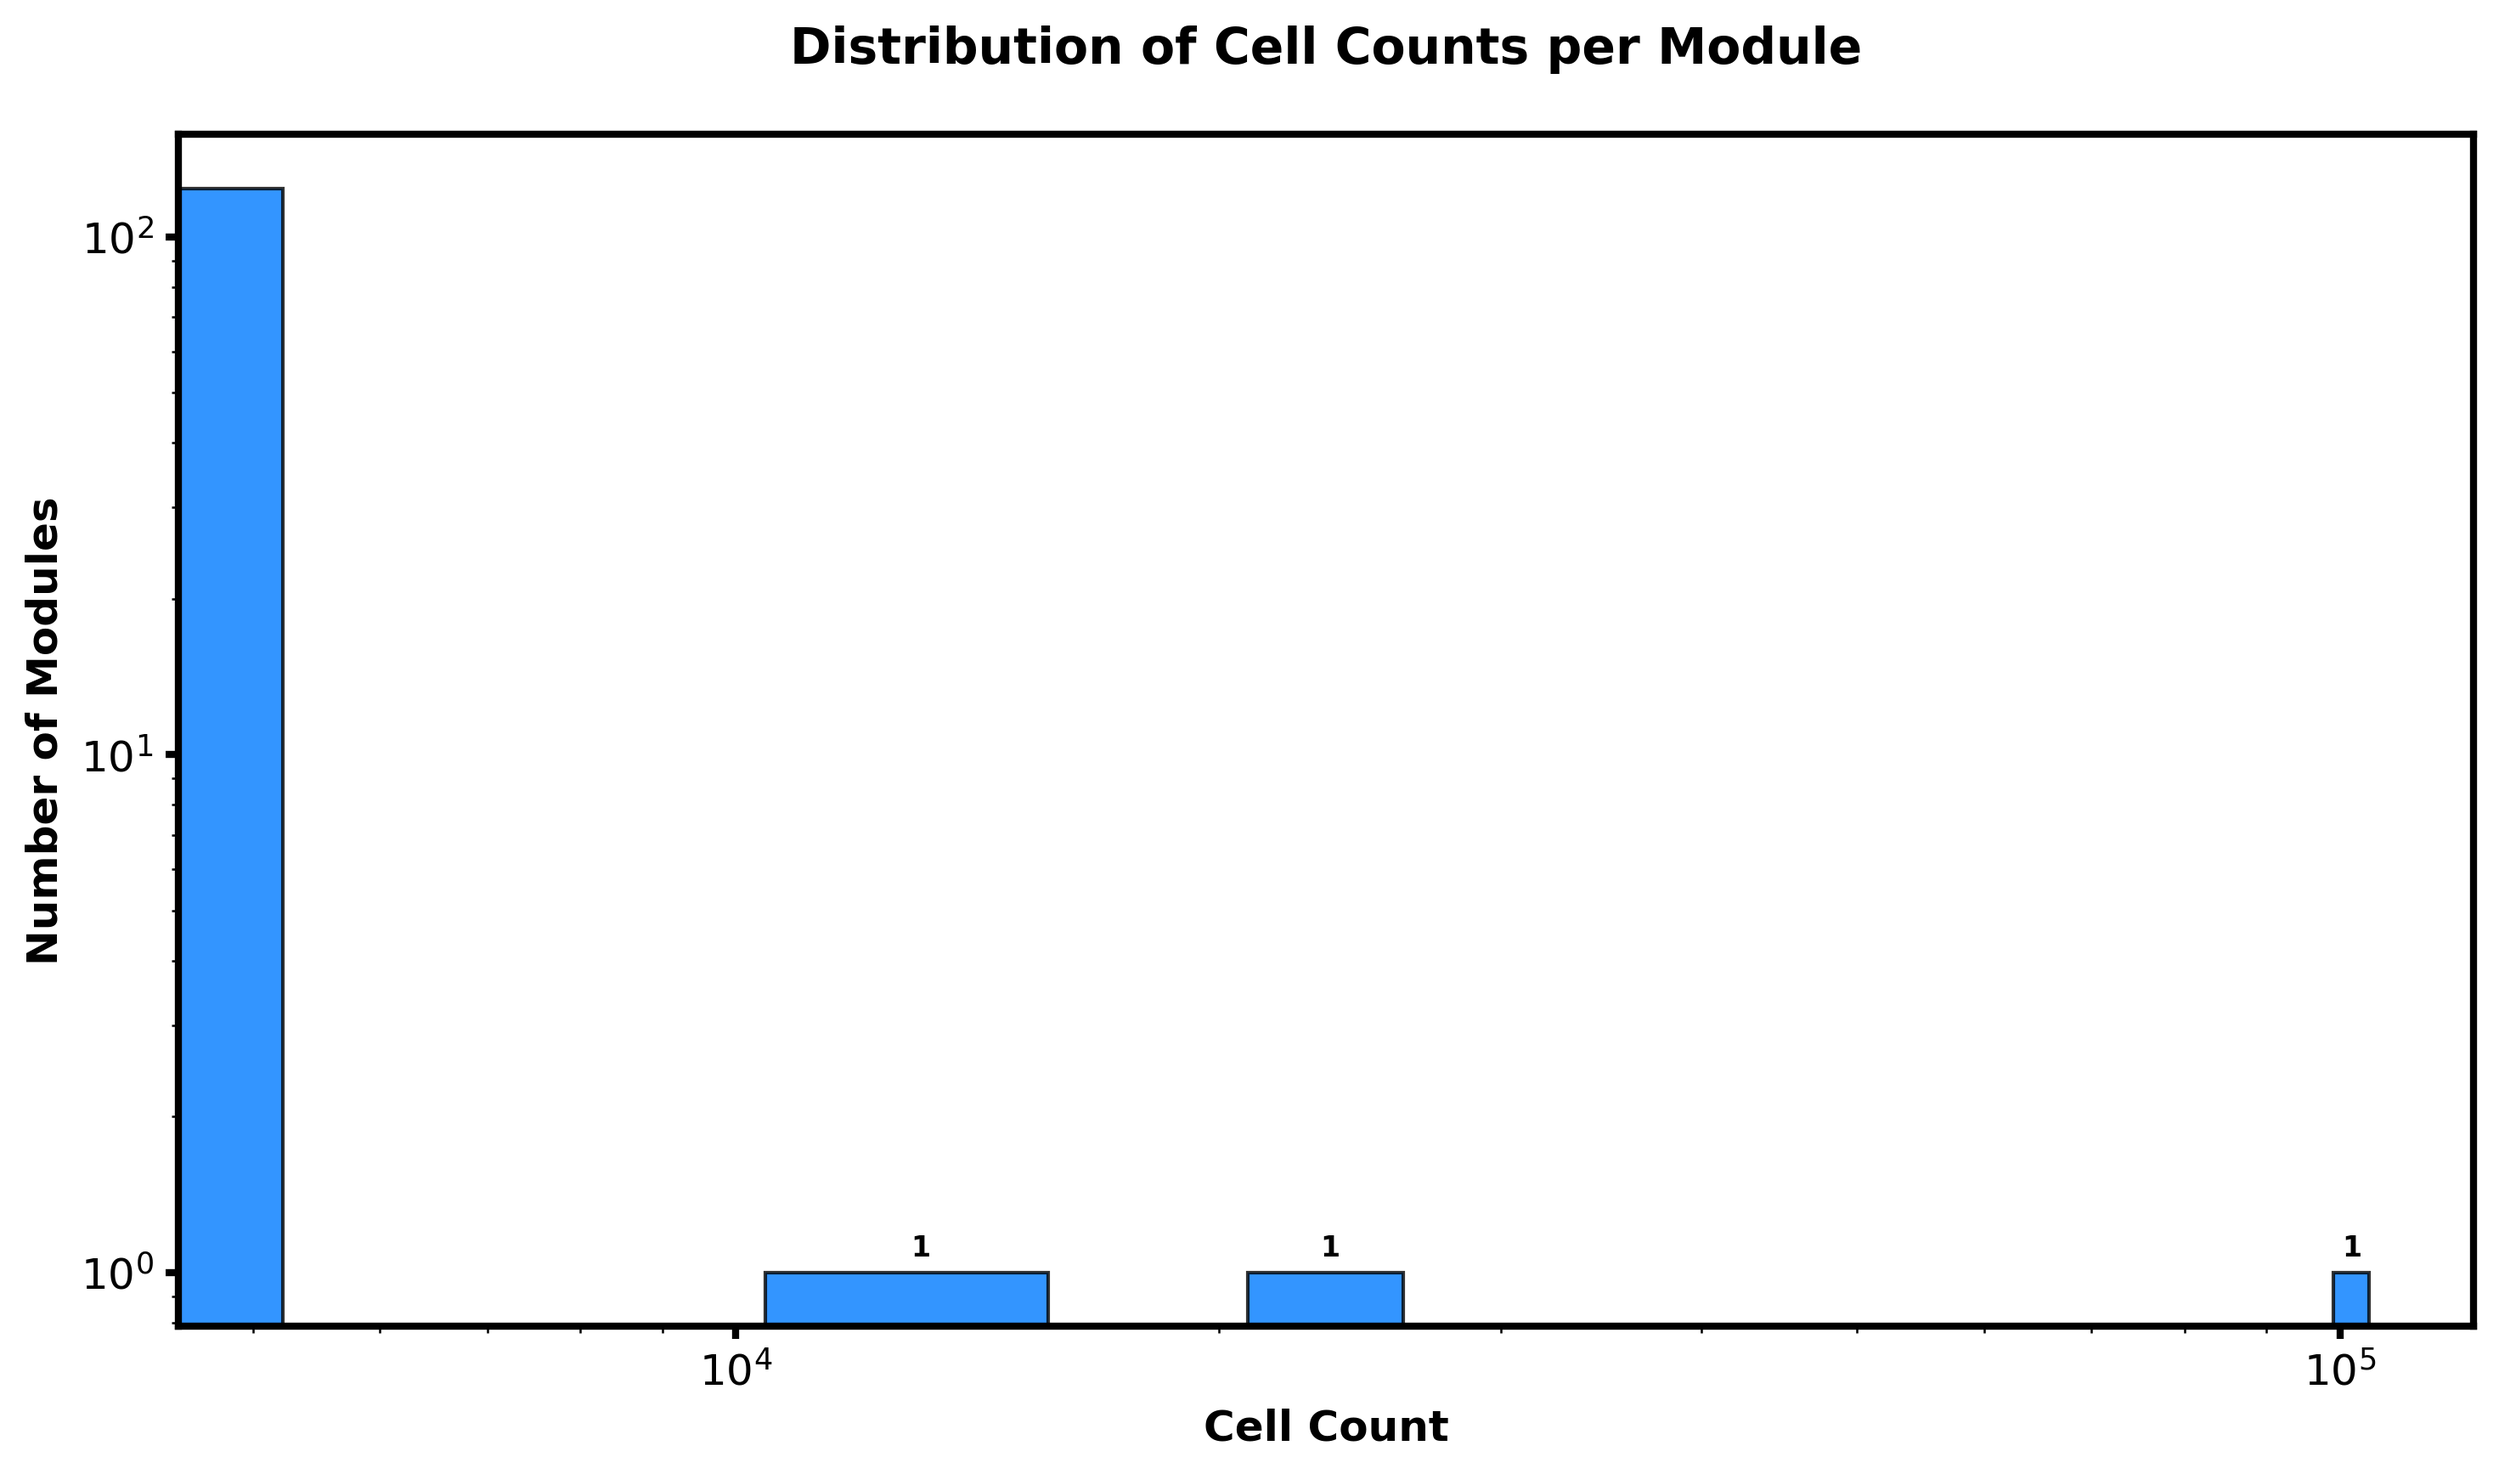
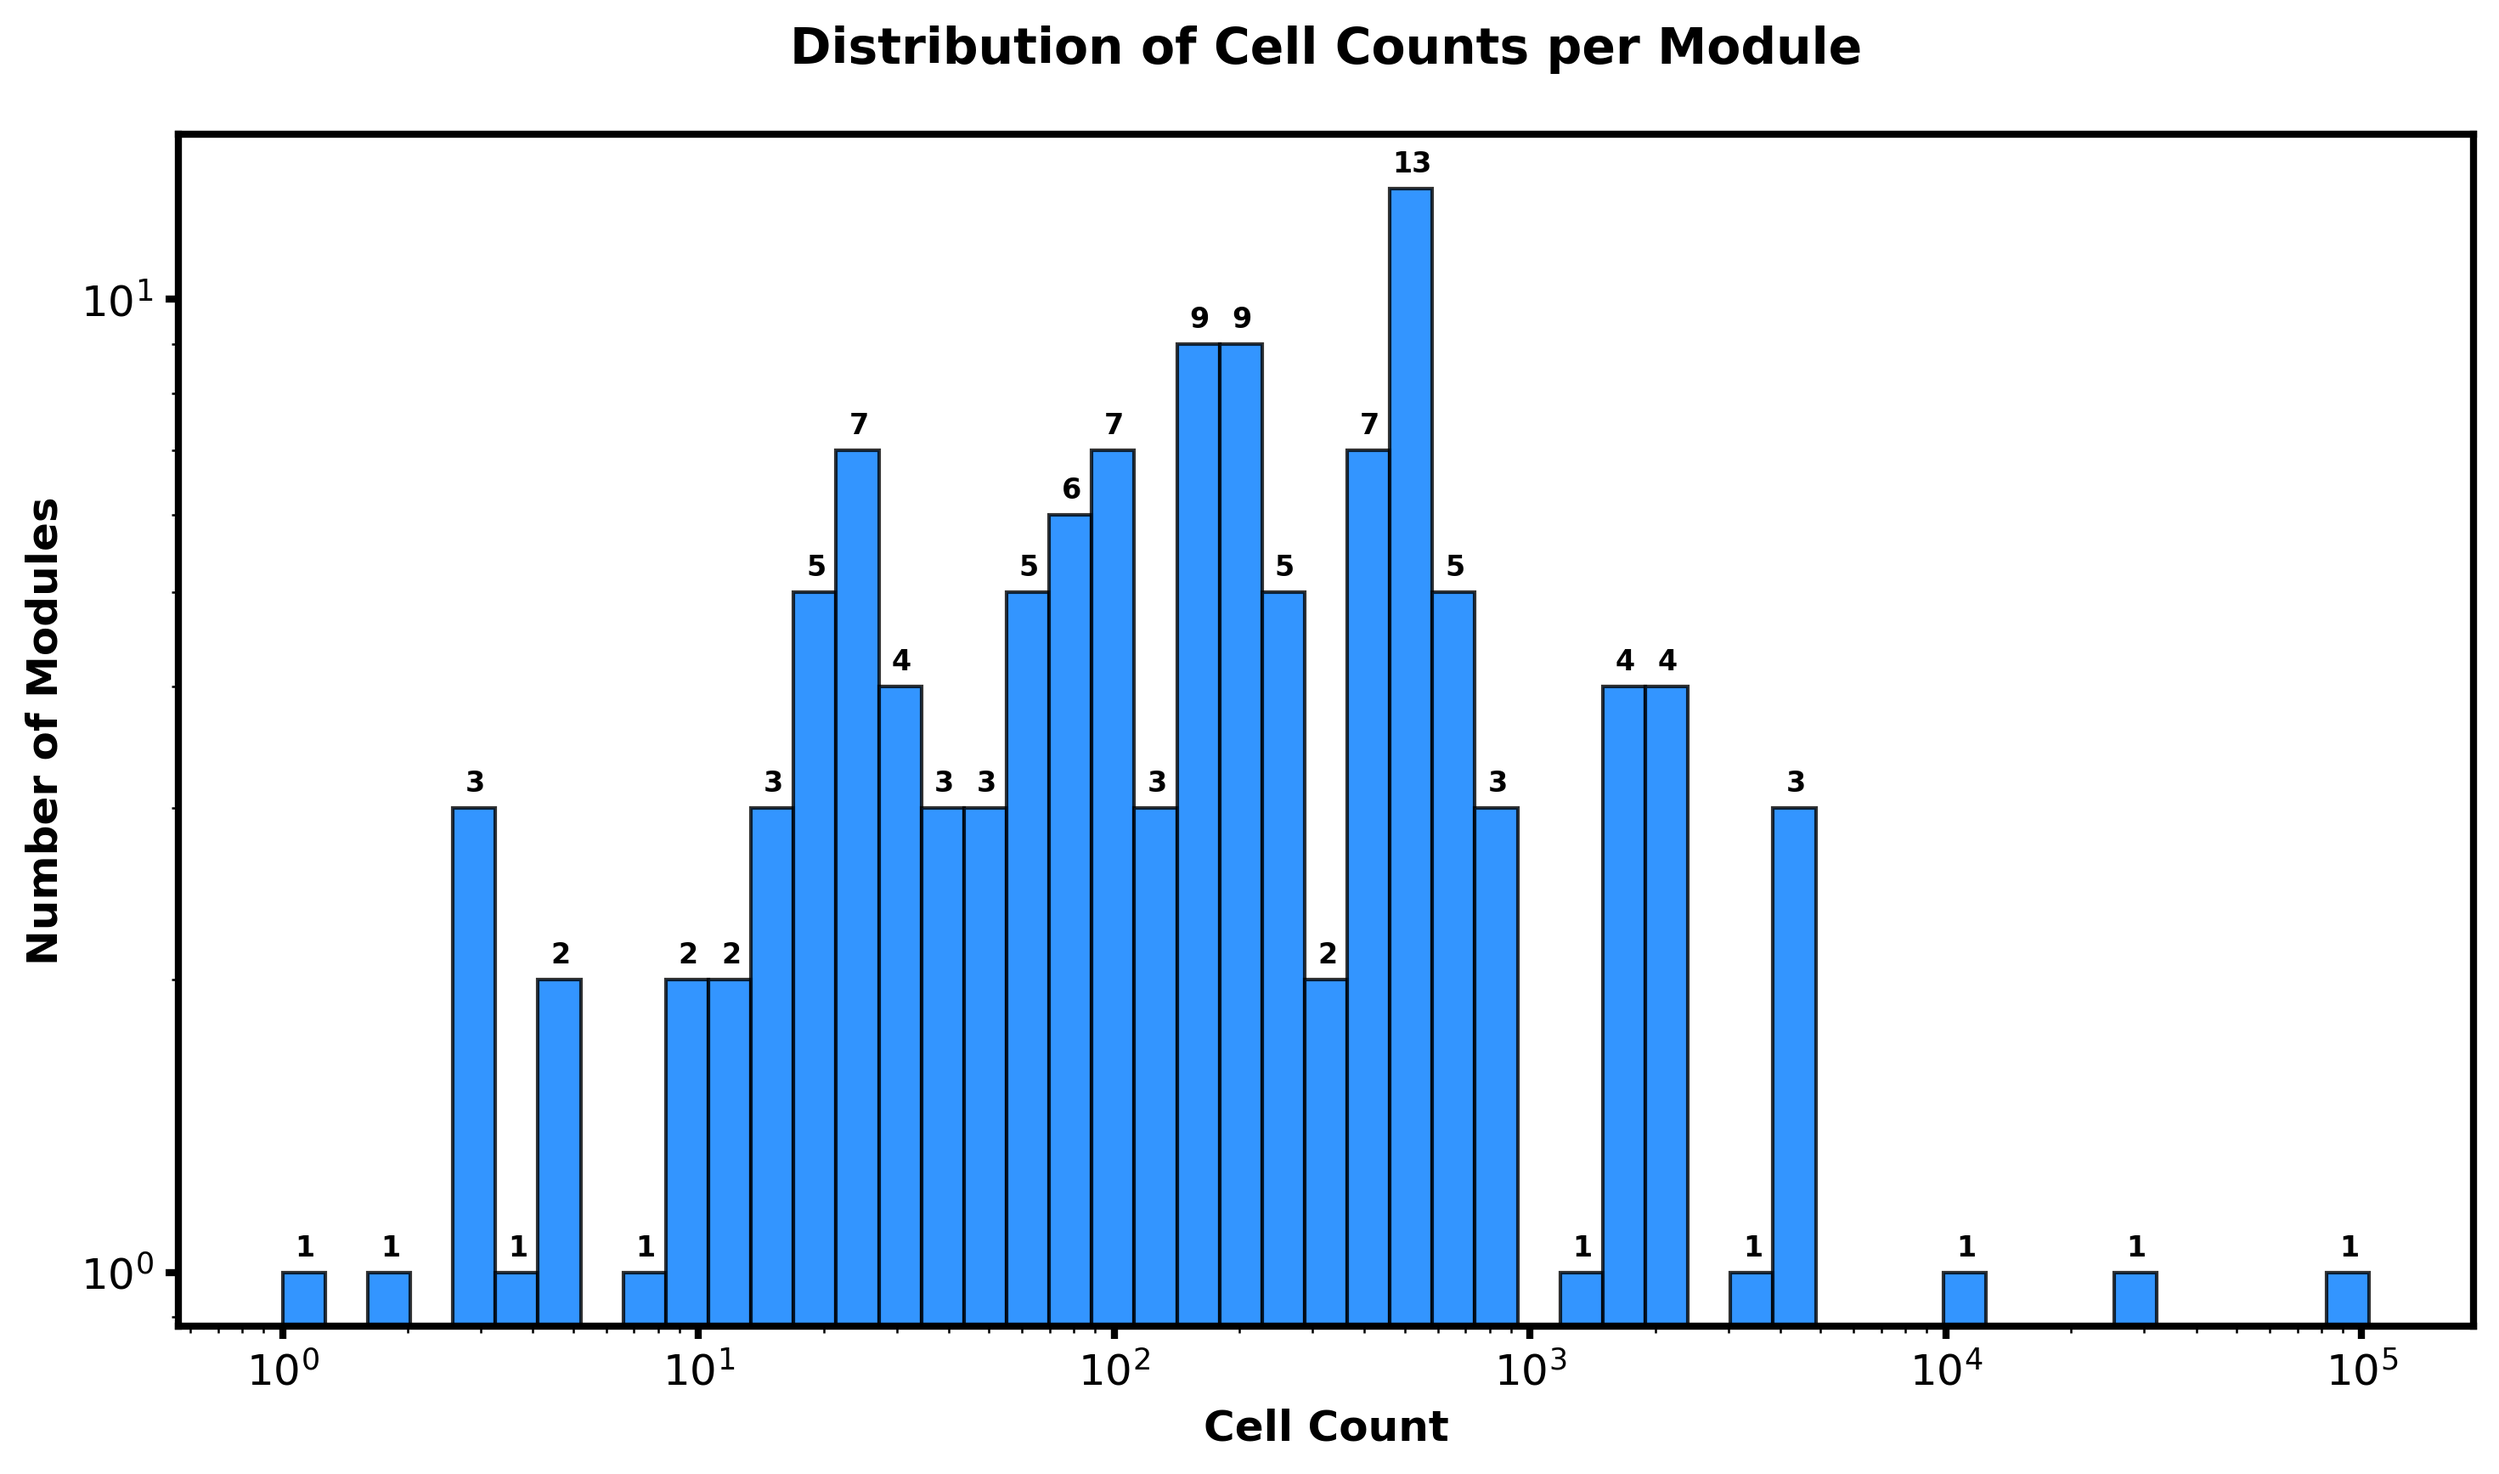
updating

diff --git a/libraries/math/tb_non_restoring_divider.cpp b/libraries/math/tb_non_restoring_divider.cpp
@@ -83,24 +83,39 @@ int main(int argc, char** argv) {
     dut->trace(vcd, 5);
     vcd->open("waveform.vcd");
     
-    bool all_tests_passed = true;
-    
+    int total_tests = 0;
+    int passed_tests = 0;
+
     // Basic test cases
-    all_tests_passed &= test_division(dut, vcd, 12, 3);    // 12/3 = 4 rem 0
-    all_tests_passed &= test_division(dut, vcd, 13, 5);    // 13/5 = 2 rem 3
-    all_tests_passed &= test_division(dut, vcd, 200, 15);  // 200/15 = 13 rem 5
-    all_tests_passed &= test_division(dut, vcd, 7, 9);     // 7/9 = 0 rem 7
-    
+    total_tests++;
+    passed_tests += test_division(dut, vcd, 12, 3);
+    total_tests++;
+    passed_tests += test_division(dut, vcd, 13, 5);
+    total_tests++;
+    passed_tests += test_division(dut, vcd, 200, 15);
+    total_tests++;
+    passed_tests += test_division(dut, vcd, 7, 9);
+
     // Edge cases
-    all_tests_passed &= test_division(dut, vcd, 0, 5);     // 0/5 = 0 rem 0
-    all_tests_passed &= test_division(dut, vcd, 255, 1);   // 255/1 = 255 rem 0
-    all_tests_passed &= test_division(dut, vcd, 1, 1);     // 1/1 = 1 rem 0
-    all_tests_passed &= test_division(dut, vcd, 254, 255); // 254/255 = 0 rem 254
-    
+    total_tests++;
+    passed_tests += test_division(dut, vcd, 0, 5);
+    total_tests++;
+    passed_tests += test_division(dut, vcd, 255, 1);
+    total_tests++;
+    passed_tests += test_division(dut, vcd, 1, 1);
+    total_tests++;
+    passed_tests += test_division(dut, vcd, 254, 255);
+
     // Division by zero
-    all_tests_passed &= test_division(dut, vcd, 42, 0);    // 42/0 = error
-    
-    if (all_tests_passed) {
+    total_tests++;
+    passed_tests += test_division(dut, vcd, 42, 0);
+
+    // Summarized test summary
+    std::cout << "\n==== Test Summary ====\n";
+    std::cout << "Result: " << (passed_tests == total_tests ? "Pass" : "Fail") << std::endl;
+    std::cout << "Tests: " << passed_tests << " of " << total_tests << std::endl;
+
+    if (passed_tests == total_tests) {
         std::cout << "\nAll division tests PASSED!" << std::endl;
     } else {
         std::cout << "\nSome division tests FAILED!" << std::endl;
@@ -110,5 +125,5 @@ int main(int argc, char** argv) {
     delete dut;
     delete vcd;
     
-    return all_tests_passed ? 0 : 1;
+    return passed_tests == total_tests ? 0 : 1;
 }

diff --git a/analyze_verilog_dataset.py b/analyze_verilog_dataset.py
@@ -186,9 +186,11 @@ class VerilogAnalyzer:
         # --- Yosys-based plots ---
         synth_stats, cell_type_totals, wire_counts, memory_counts, cell_counts, area_counts = self.gather_synthesis_stats()
         # Histogram of cell counts
-        if cell_counts:
+        cell_counts_nonzero = [c for c in cell_counts if c > 0]
+        if cell_counts_nonzero:
             plt.figure(figsize=(10, 6))
-            n, bins, patches = plt.hist(cell_counts, bins=20, color='#007bff', edgecolor='black', alpha=0.8)
+            bins = np.logspace(np.log10(min(cell_counts_nonzero)), np.log10(max(cell_counts_nonzero)), 50)
+            n, bins, patches = plt.hist(cell_counts_nonzero, bins=bins, color='#007bff', edgecolor='black', alpha=0.8)
             plt.title('Distribution of Cell Counts per Module', pad=20, fontsize=14, fontweight='bold')
             plt.xlabel('Cell Count', fontsize=12, fontweight='bold')
             plt.ylabel('Number of Modules', fontsize=12, fontweight='bold')
@@ -207,9 +209,11 @@ class VerilogAnalyzer:
             plt.savefig('plots/cell_count_histogram.png', dpi=300, bbox_inches='tight')
             plt.close()
         # Histogram of wire counts
-        if wire_counts:
+        wire_counts_nonzero = [w for w in wire_counts if w > 0]
+        if wire_counts_nonzero:
             plt.figure(figsize=(10, 6))
-            n, bins, patches = plt.hist(wire_counts, bins=20, color='#007bff', edgecolor='black', alpha=0.8)
+            bins = np.logspace(np.log10(min(wire_counts_nonzero)), np.log10(max(wire_counts_nonzero)), 50)
+            n, bins, patches = plt.hist(wire_counts_nonzero, bins=bins, color='#007bff', edgecolor='black', alpha=0.8)
             plt.title('Distribution of Wire Counts per Module', pad=20, fontsize=14, fontweight='bold')
             plt.xlabel('Wire Count', fontsize=12, fontweight='bold')
             plt.ylabel('Number of Modules', fontsize=12, fontweight='bold')

diff --git a/DATASET.md b/DATASET.md
@@ -16,7 +16,7 @@ The dataset contains 138 Verilog modules across 24 different categories, providi
 ## Code Metrics
 
 ### Average Metrics per Module
-- Lines of Code: 112.55
+- Lines of Code: 112.54
 - Parameters: 2.75
 - Ports: 11.22
 
@@ -163,7 +163,7 @@ The following table summarizes the gate (cell) count, wire count, memory countfo
 | gpio_controller | N/A | N/A | N/A |
 | fixed_point_sqrt | 197 | 193 | 0 |
 | floating_point_adder | 2195 | 1952 | 0 |
-| non_restoring_divider | N/A | N/A | N/A |
+| non_restoring_divider | 188 | 137 | 0 |
 | ddr_controller | 1586 | 1329 | 0 |
 | dual_port_ram | 609 | 476 | 0 |
 | memory_controller | 25734 | 17729 | 0 |
@@ -213,26 +213,26 @@ The following table summarizes the gate (cell) count, wire count, memory countfo
 | jtag_controller | 206 | 105 | 0 |
 | majority_voter | 90 | 88 | 0 |
 
-- **Average Gate/Cell Count:** 1530.96
-- **Average Wire Count:** 1156.72
+- **Average Gate/Cell Count:** 1520.47
+- **Average Wire Count:** 1148.76
 - **Average Memory Count:** 0.00
 
 ### Most Common Cell Types (All Modules)
 
 | Cell Type | Total Count |
 |-----------|------------|
-| ANDNOT | 58586 |
-| OR | 54956 |
+| ANDNOT | 58630 |
+| OR | 54968 |
 | DFFE_PP | 44581 |
-| MUX | 12531 |
-| XOR | 5382 |
-| DFFE_PN0P | 3194 |
-| NOT | 3055 |
-| NAND | 2270 |
-| ORNOT | 2090 |
-| NOR | 2081 |
-| XNOR | 1770 |
-| AND | 1698 |
+| MUX | 12548 |
+| XOR | 5395 |
+| DFFE_PN0P | 3243 |
+| NOT | 3058 |
+| NAND | 2272 |
+| ORNOT | 2107 |
+| NOR | 2096 |
+| XNOR | 1775 |
+| AND | 1709 |
 | SDFFCE_PN0P | 1088 |
 | DFF_PN0 | 662 |
 | SDFFE_PN0P | 89 |
@@ -277,7 +277,7 @@ This dataset provides a diverse collection of Verilog modules that represent var
 
 4. **Interface Complexity**: With an average of 11.22 ports per module, the designs demonstrate a range of interface complexities suitable for diverse applications.
 
-5. **Synthesis Metrics**: Available synthesis statistics (e.g., an average of 1530.96 cells for 127 successfully synthesized modules with cell data) provide insights into the hardware implications and implementation styles. Detailed metrics are available in the synthesis section.
+5. **Synthesis Metrics**: Available synthesis statistics (e.g., an average of 1520.47 cells for 128 successfully synthesized modules with cell data) provide insights into the hardware implications and implementation styles. Detailed metrics are available in the synthesis section.
 
 This dataset is well-suited for research in areas such as:
 - RTL design patterns and best practices
